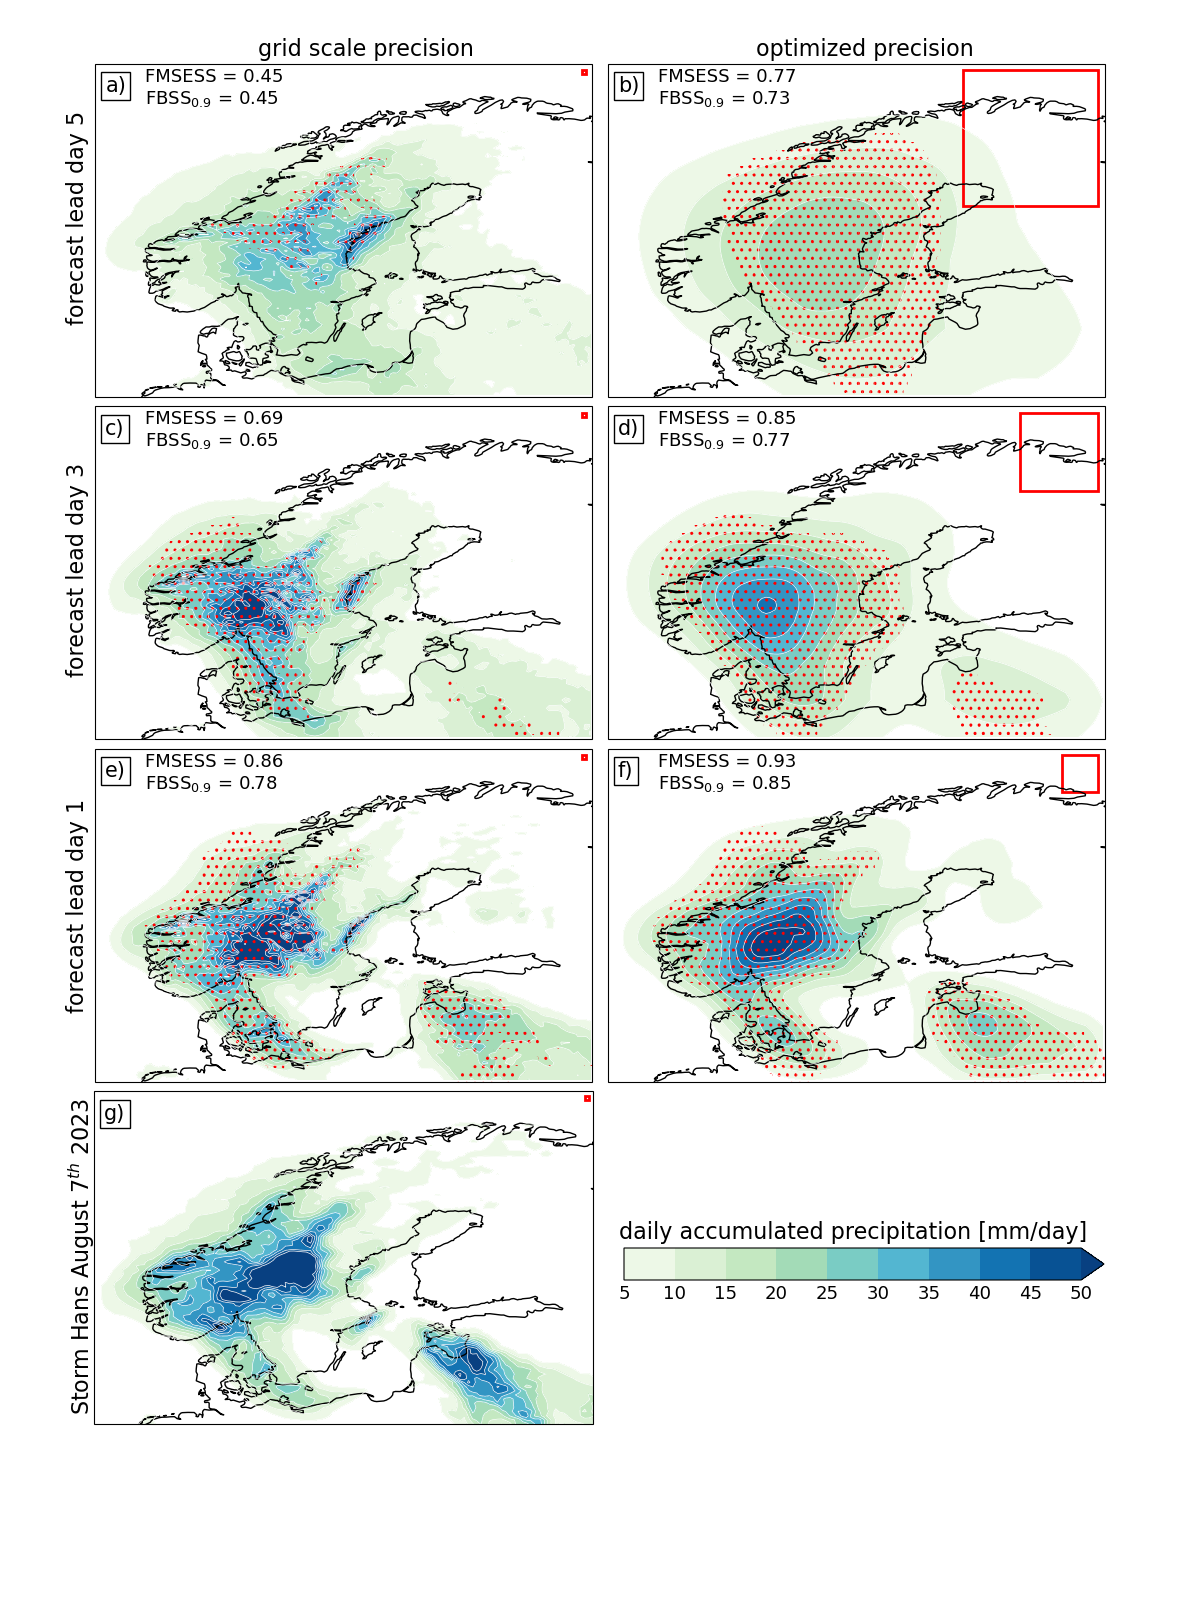
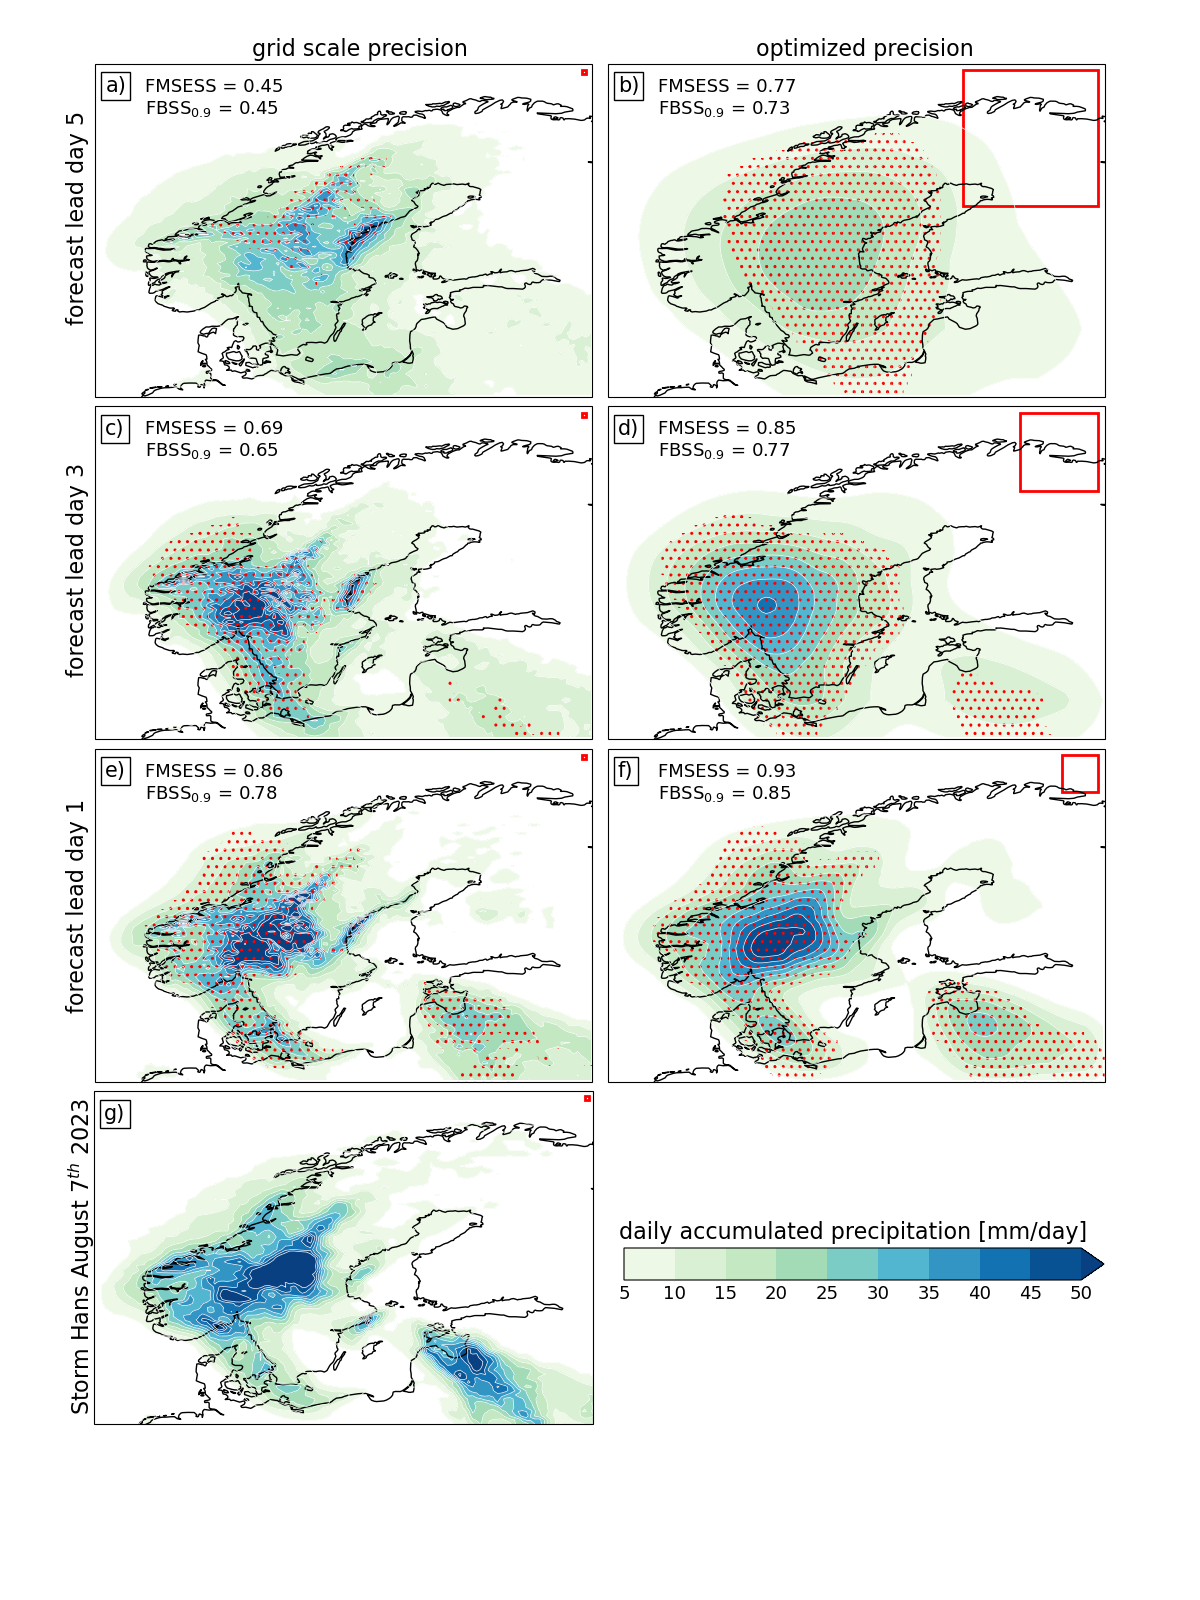
update

diff --git a/code/plot/test.py b/code/plot/test.py
@@ -27,13 +27,12 @@ def setup_subplot_xy(flag, ax, ds1, ds2, clevs, cmap, fontsize, title, stats):
         rectangle_length = 0.25*ds2['box_size']
         rectangle = plt.Rectangle((31.75, 72.75), rectangle_length, rectangle_length, angle=180, fc=(0.5,0.5,0.5,0),ec='r',lw=2)
         ax.add_patch(rectangle)        
-        ax.text(0.1,0.88,stats,fontsize=fontsize+2,transform=ax.transAxes)
+        ax.text(0.1,0.85,stats,fontsize=fontsize+2,transform=ax.transAxes)
     else:
         rectangle = plt.Rectangle((31.75, 72.75), 0.25, 0.25, angle=180, fc=(0.5,0.5,0.5,0),ec='r',lw=2)
         ax.add_patch(rectangle)
         
     ax.coastlines(color='k',linewidth=1)
-    #ax.set_title(title,fontsize=fontsize+5)
     ax.set_title(title, fontsize=fontsize + 4,loc='left', ha='left', y=0.89, x=0.02, bbox={'facecolor': 'white', 'edgecolor': 'black', 'pad': 3})    
     
     return p
